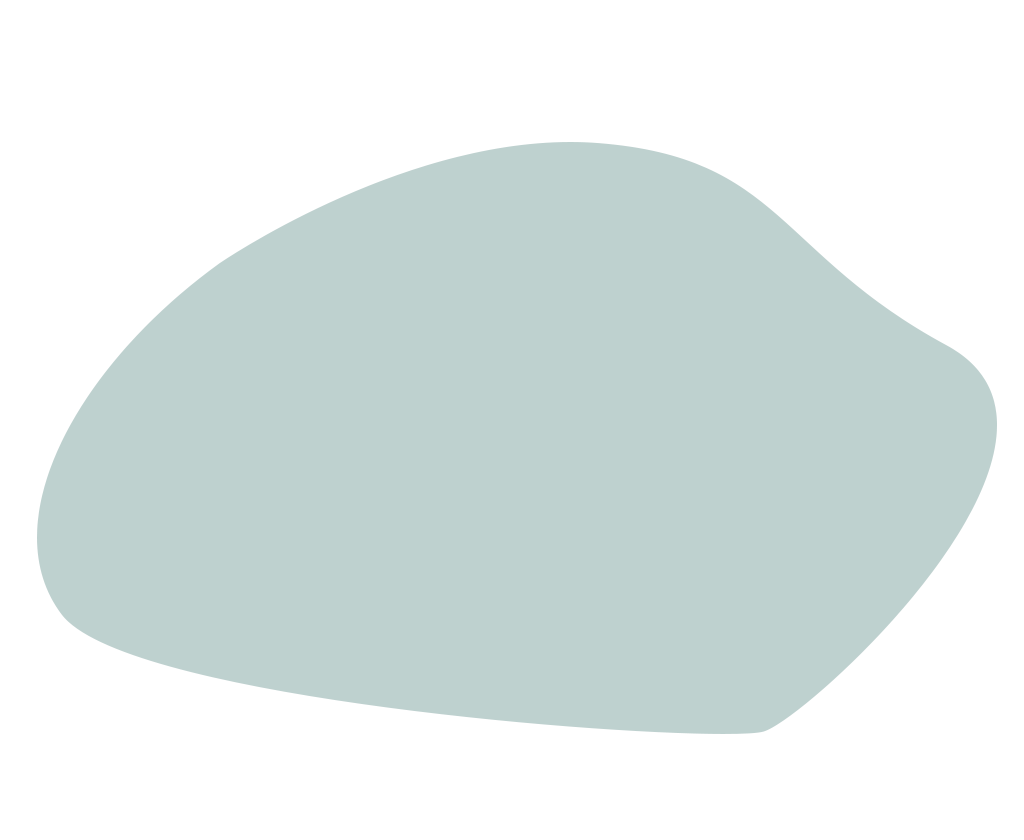
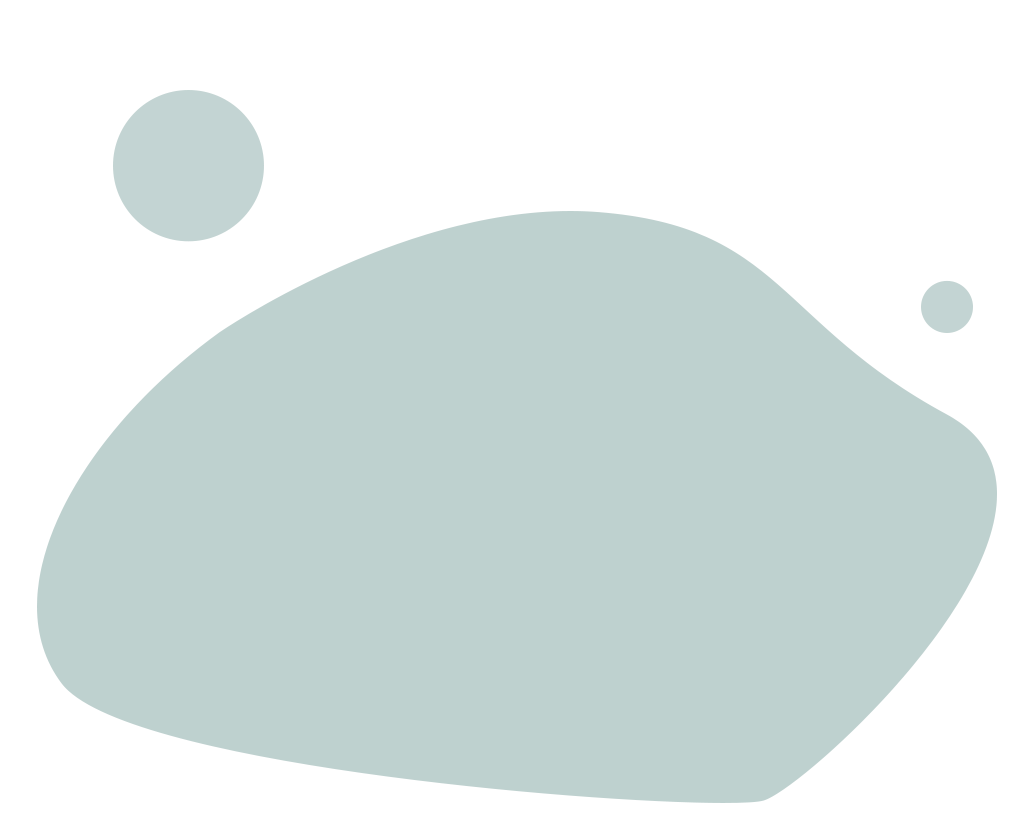
changed the main gradient color and the make the size of works smoothly responsive :)

Changed region(s): [[0.0312, 0.0929, 1.0, 0.9595]]

diff --git a/style/main.css b/style/main.css
@@ -1,6 +1,7 @@
 *{padding:0;margin:0;box-sizing: border-box;transition: all .8s ease;font-family: 'Cairo', sans-serif;}
 :root{
   --main-gradient: linear-gradient(45deg,rgb(237, 141, 254),rgb(121, 24, 199),rgb(84, 223, 214));
+  --main-gradient: linear-gradient(45deg, #1b262c, #0f4c75, #3282b8);
   /*
   --main-gradient: linear-gradient(45deg,#ed8dfe,#7918c7,#54dfd6);
   //linear-gradient(45deg,#ff0,#0ff,#f0f)
@@ -66,9 +67,8 @@ body{
     align-items: center;
     justify-content: center;
     flex-direction: column;
-    background: url('../images/section-bg.png') no-repeat;
-    background-size: cover;
-    background-attachment: fixed;
+    background: url('../images/section-bg.png') no-repeat fixed 50% 50%;
+    background-size: 80% 100%;
 }
 .sub-head{
     padding: 2px;
@@ -260,8 +260,10 @@ background: #999;
   align-items: center;justify-content: center;flex-wrap: wrap;
 }
 .my-works .work{
-  width: 320px;
+  width: calc(100%/3 - 3rem);
   margin: .5rem;
+  min-width: 280px;
+  max-width: 400px;
   padding: .5rem;
   border-radius: 4px;
   box-shadow: 0px 2px 15px var(--dark-color);
@@ -396,7 +398,7 @@ background: #999;
     display: none;
     position: fixed;
     top: 0;left: 0;
-    background: linear-gradient(45deg,rgba(237, 141, 254,.95),rgba(121, 24, 199,.95),rgba(84, 223, 214,.95));
+    background: linear-gradient(45deg, #1b262c, #0f4c75, #3282b8);
     width: 100%;
     height: 100vh;
     justify-content: center;
@@ -441,7 +443,7 @@ background: #999;
   align-items: center;
   justify-content: center;
   flex-direction: column;
-  background: var(--black);
+  background: #222;
   transition: all 0s ease;
 }
 .loader{
@@ -464,7 +466,7 @@ background: #999;
   width: 90%;
   height: 90%;
   border-radius: 50%;
-  background: var(--black);
+  background: #222;
   animation: loadAf 3s linear infinite;
 }
 .disable{
@@ -485,19 +487,31 @@ background: #999;
     height:0;
     opacity: 0;
     margin:0;
-    padding: 0
+    padding: 0;
+    min-width:0;
+    max-width: 0;
   }
 }
 
 @media(max-width: 1200px){
-    .container{
-        width: 100%;
-        margin: 0;
-    }
-    .overlay img{
-        width: 90%;
-        height: 90%;
-    }
+  .container{
+    width: 100%;
+    margin: 0;
+  }
+  .overlay img{
+    width: 90%;
+    height: 90%;
+  }
+}
+@media(max-width: 1056px){
+  .my-works .work{
+    width: calc(100%/2 - 2rem)
+  }
+}
+@media(max-width: 714px){
+  .my-works .work{
+    width: calc(100% - 2rem)
+  }
 }
 @font-face {
   font-family: Cairo;

diff --git a/index.html b/index.html
@@ -4,8 +4,8 @@
     <meta charset="UTF-8">
     <meta name="viewport" content="width=device-width, initial-scale=1.0">
     <meta http-equiv="X-UA-Compatible" content="ie=edge">
-    <meta name="description" content="Ahmad Fathy | full stack developer - javaScript developer"/>
-    <meta name="keywords" content="ahmad fathy, ahmed fathy, programmer, developer, front end developer, back end develope, full stack developer,freelancer,free lancer ,portfolio, js, javascript, javascript deceloper" />
+    <meta name="description" content="Ahmad Fathy | full stack developer"/>
+    <meta name="keywords" content="ahmad fathy, ahmed fathy, programmer, developer, front end developer, back end developer, full stack developer,freelancer,free lancer ,portfolio, js, javascript, javascript developer" />
     <meta name="author" content="Ahmad Fathy">
     <meta property="og:image" content="images/me.jpg" />
     <link rel="icon" href="images/fav.png">

diff --git a/js/randomCircles.js b/js/randomCircles.js
@@ -7,7 +7,7 @@ class randomCircles{
   show(){
     noStroke();
     circle(this.x, this.y, 10, 10);
-    let colors = ['#ff0', '#0ff', '#f0f'];
+    let colors = ['#ff0', '#e8e8e8', '#3282b8'];
     let clr = colors[Math.floor(Math.random() * colors.length)];
     fill(clr);
   }
